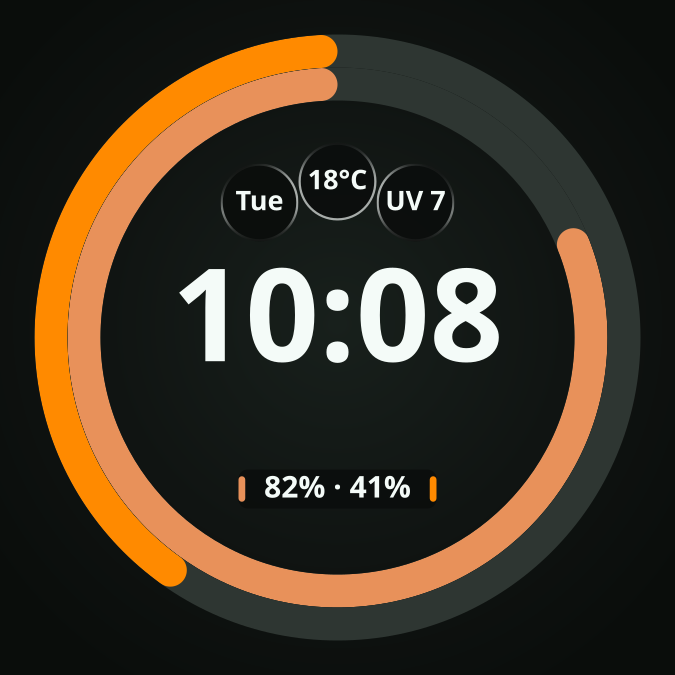
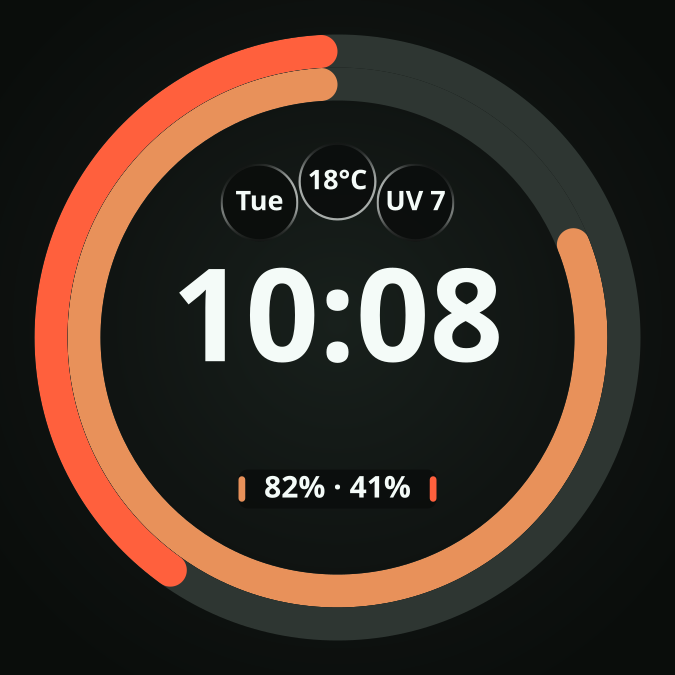
fix(claude): adopt the approved Fable accent across surfaces

Changed region(s): [[0.0311, 0.0311, 0.4978, 0.8711], [0.6222, 0.7156, 0.6533, 0.7467]]

diff --git a/apps/phone_flutter/test/dashboard_screen_test.dart b/apps/phone_flutter/test/dashboard_screen_test.dart
@@ -432,9 +432,9 @@ void main() {
       File('../../fixtures/snapshots/dashboard_today.json').readAsStringSync(),
     );
     for (final (provider, allowanceSource, id, used, color) in const [
-      ('claude', 'plan', 'claude-seven-day-fable', 25.0, Color(0xFFFF8A00)),
-      ('claude', 'plan', 'claude-seven-day-fable', 100.0, Color(0xFFFF8A00)),
-      ('claude', 'plan', 'claude-seven-day-fable', null, Color(0xFFFF8A00)),
+      ('claude', 'plan', 'claude-seven-day-fable', 25.0, Color(0xFFFF603D)),
+      ('claude', 'plan', 'claude-seven-day-fable', 100.0, Color(0xFFFF603D)),
+      ('claude', 'plan', 'claude-seven-day-fable', null, Color(0xFFFF603D)),
       ('claude', 'plan', 'claude-seven-day', 25.0, Color(0xFFE8915A)),
       (
         'claude',

diff --git a/apps/phone_flutter/test/phone_widget_payload_test.dart b/apps/phone_flutter/test/phone_widget_payload_test.dart
@@ -68,7 +68,7 @@ void main() {
           final fable = payload.rows.first;
           expect(fable.poolLabel, 'Fable weekly');
           expect(fable.remainingPercent, 0);
-          expect(fable.accentArgb, 0xFFFF8A00);
+          expect(fable.accentArgb, 0xFFFF603D);
           expect(fable.resetsAt, reset);
         }
       }
@@ -191,7 +191,7 @@ void main() {
     expect(phoneWidgetAccentArgb('allowance.claude.plan'), claude);
     expect(
       phoneWidgetAccentArgb('allowance.claude.claude-seven-day-fable'),
-      0xFFFF8A00,
+      0xFFFF603D,
     );
     for (final id in [
       'allowance.claude.claude-seven-day',

diff --git a/apps/wear_android/app/src/test/java/app/wardpulse/wear/ui/RingFamilyTest.kt b/apps/wear_android/app/src/test/java/app/wardpulse/wear/ui/RingFamilyTest.kt
@@ -48,7 +48,7 @@ class RingFamilyTest {
 
     @Test
     fun onlyTheExactFableMetricLeavesTheClaudeFamilyColor() {
-        assertEquals(0xFFFF8A00.toInt(), RingFamily.colorArgb("allowance.claude.claude-seven-day-fable"))
+        assertEquals(0xFFFF603D.toInt(), RingFamily.colorArgb("allowance.claude.claude-seven-day-fable"))
         for (id in listOf(
             "allowance.claude.plan",
             "allowance.claude.claude-seven-day",

diff --git a/apps/phone_flutter/lib/dashboard/provider_status_color.dart b/apps/phone_flutter/lib/dashboard/provider_status_color.dart
@@ -17,7 +17,7 @@ const familyCursorOwnColor = Color(0xFF7E93B8);
 const familyCodexSparkColor = Color(0xFF186020);
 
 /// The independent included Fable weekly sub-cap, not the ordinary Claude family.
-const familyClaudeFableColor = Color(0xFFFF8A00);
+const familyClaudeFableColor = Color(0xFFFF603D);
 
 /// Demo data keeps the blue it has always had; it is not an unresolved family.
 const _familyMock = Color(0xFF8AB4F8);

diff --git a/apps/wear_android/app/src/main/java/app/wardpulse/wear/ui/RingFamily.kt b/apps/wear_android/app/src/main/java/app/wardpulse/wear/ui/RingFamily.kt
@@ -13,7 +13,7 @@ object RingFamily {
     const val CLAUDE = 0xFFE8915A.toInt()
 
     /** Only the recognized included weekly Fable sub-cap has this accent. */
-    const val CLAUDE_FABLE = 0xFFFF8A00.toInt()
+    const val CLAUDE_FABLE = 0xFFFF603D.toInt()
 
     /** Cursor, and its external models pool by extension. */
     const val CURSOR = 0xFF67E8D4.toInt()

diff --git a/docs/product/WATCH_RING_DESIGN.md b/docs/product/WATCH_RING_DESIGN.md
@@ -154,10 +154,22 @@ acceptance is inferred. Three bands, two split ordinals, eight slots, pair/Fable
 all admission/data rules, full closure, tracks and the raised clock/cells/logo/legend
 retain their owning contracts.
 
+## Revision 2026-11-01 — approved Fable palette
+
+The owner approved replacing exact Fable `#FF8A00` with `#FF603D`, a warm red with an
+orange tint, across the face/marker, Glance, Dashboard and widget. Ordinary Claude
+remains `#E8915A`. The current Fable rules below use the replacement accent; matching,
+pair identity, zero/unknown/error styling, alpha, caps, pivots, geometry, raised clock,
+typography, data and selection rules remain unchanged.
+
+New-palette native/current-Legacy and public proof remain **Pending** for the separate
+post-execution HOST handoff. Historical observations and bounded prior acceptance
+retain their dated scope; generated review art does not establish painted native color.
+
 ## Revision 2026-11-01 — included Fable weekly metric
 
 The selected Claude/Fable design adds one exact metric accent: `claude-seven-day-fable`
-and ring `allowance.claude.claude-seven-day-fable` use **`#FF8A00`**. Ordinary Claude,
+and ring `allowance.claude.claude-seven-day-fable` use **`#FF603D`**. Ordinary Claude,
 legacy Opus/Sonnet and Anthropic budgets keep **`#E8915A`**. Provider/status chrome
 retains its existing theme roles.
 This is a selected palette rule; no native color or fit measurement is claimed here.
@@ -1151,7 +1163,7 @@ may modulate toward theme tertiary/error when needed.
 | OpenAI / Codex | `#65D78A` | Green |
 | Codex · Spark | `#186020` | Dark green — the Spark limit on the Codex plan |
 | Anthropic / Claude | `#E8915A` | Orange (Anthropic presentation) |
-| Claude · Fable | `#FF8A00` | Exact included weekly sub-cap only; revision 2026-11-01 |
+| Claude · Fable | `#FF603D` | Warm red with an orange tint; exact included weekly sub-cap only; approved revision 2026-11-01 |
 | Cursor · other models | `#67E8D4` | Cyan — external models on the Cursor plan |
 | Cursor · own models | `#7E93B8` | Grey-blue — the plan's own pool |
 | Unresolved family | `#8A968F` | Neutral grey — fallback only, never a product color |
@@ -1283,7 +1295,7 @@ on its own value.
 2. **The order inside a pair is fixed by pool, never by usage.** Cursor own models take the
    inner half and left marker; external models take the outer half and right marker. Codex main
    takes inside/left, Spark outside/right; its darker `#186020` reads on the longer outer arc.
-   Ordinary Claude takes inside/left in `#E8915A`, Fable outside/right in `#FF8A00`.
+   Ordinary Claude takes inside/left in `#E8915A`, Fable outside/right in `#FF603D`.
    Position inside the pair is a name, not a rank: urgency is already carried twice, by each half's own melt and by
    where the pair sits among the rings. A third encoding would only make the colours swap sides
    at the moment the reader is looking at a problem.
@@ -1295,7 +1307,7 @@ on its own value.
    stays the rule for every other strip: two of the same colour would say a thing twice, which is
    the defect this language exists to avoid. Each strip's `TITLE` carries a closed outer-pool
    token: `cursor-other` selects static `#67E8D4`, `spark` selects static `#186020`, and
-   `fable` selects static `#FF8A00`.
+   `fable` selects static `#FF603D`.
    An empty or unknown family token paints no far marker. Known zero does not remove a marker.
    The inner accent keeps `[COMPLICATION.RANGED_VALUE_COLORS]`; the
    outer accent does not borrow its colour. A new outer pool requires a matching token in Wear

diff --git a/docs/product/WEAR_GLANCE_DESIGN.md b/docs/product/WEAR_GLANCE_DESIGN.md
@@ -9,12 +9,16 @@ watch-face baseline in [`WATCH_RING_DESIGN.md`](WATCH_RING_DESIGN.md): this scre
 
 The selected pair title is **Claude / Fable**, recognized only for inner
 `allowance.claude.plan` and outer `allowance.claude.claude-seven-day-fable`.
-Ordinary Claude keeps `#E8915A`; only the exact Fable metric takes `#FF8A00`.
+Ordinary Claude keeps `#E8915A`; only the exact Fable metric takes `#FF603D`.
 Keep inner-first percentages regardless of which half is tighter, existing purchased-credit
 eligibility and compact formatting, and pale-red numeric zero tokens only for known exhaustion.
 An unknown half uses the existing known-survivor fallback with its meaningful window label;
 two unknown halves produce no legend row. Plan windows retains the supplied window labels
 and real resets. This adds no new refresh, navigation or rendering geometry rule.
+
+**Approved palette follow-up 2026-11-01.** Replace Fable `#FF8A00` with `#FF603D`,
+a warm red with an orange tint. New-palette native/public proof remains **Pending**;
+earlier observations retain their dated scope.
 
 `glance-legend-fable.svg` and `glance-legend-fable-zero.svg` are synthetic illustrative
 review art, not positive-consumption captures or native measurements. Native/current-Legacy

diff --git a/docs/product/PHONE_WIDGET_DESIGN.md b/docs/product/PHONE_WIDGET_DESIGN.md
@@ -30,11 +30,15 @@ The declared baseline covers approved English labels, numeric tokens and reset f
 ## Metric rules and optional reset
 
 **Metric-color revision 2026-11-01.** Exact metric
-`allowance.claude.claude-seven-day-fable` takes `#FF8A00`; ordinary Claude remains
+`allowance.claude.claude-seven-day-fable` takes `#FF603D`; ordinary Claude remains
 `#E8915A`. Similar labels/IDs, legacy windows, Anthropic budgets and provider/status
 chrome do not inherit this exception. Expanded independent rows, six selections,
 purchased-credit eligibility, real optional resets and known-zero/unknown behavior
 are unchanged. This Source palette decision does not close pending native/public acceptance.
+
+**Approved palette follow-up 2026-11-01.** Replace Fable `#FF8A00` with `#FF603D`,
+a warm red with an orange tint. New-palette native/public proof remains **Pending**;
+earlier observations and ordinary Claude review rows retain their dated scope.
 
 **Selection independence revision 2026-11-01.** Fable weekly is its own expanded widget
 choice. Keep six independent rows even when the same metrics would exceed watch band or

diff --git a/docs/product/user-guide/WATCH.md b/docs/product/user-guide/WATCH.md
@@ -151,10 +151,10 @@ keeps a grey empty track and pale-red **0%** token; it is not replaced by a less
 Tiny positive values rounded to zero keep ordinary styling.
 
 **Claude plan** uses those ordinary windows; **Claude · Fable** is a separate included weekly
-sub-cap when reported. Selecting both produces **Claude / Fable**. Fable uses orange
-`#FF8A00`; ordinary Claude keeps `#E8915A`. A missing percentage stays unknown: only known
-halves fill rings, and a surviving half uses an ordinary band. Reported resets stay with their
-own windows on **Plan windows**.
+sub-cap when reported. Selecting both produces **Claude / Fable**. Fable uses warm red
+with an orange tint (`#FF603D`); ordinary Claude keeps `#E8915A`. A missing percentage stays
+unknown: only known halves fill rings, and a surviving half uses an ordinary band. Reported
+resets stay with their own windows on **Plan windows**.
 
 **Next watch payload** describes what the phone will send; it is not delivery confirmation.
 Ring choices are independent of the phone's [home-widget selection](/guide/widget).

diff --git a/docs/assets/README.md b/docs/assets/README.md
@@ -18,7 +18,12 @@ pair, healthy Glance, Plan windows and watch face form one shared-state group ca
 The Dashboard warning pair, clock-free Stale Glance and historical manual-selection setup
 image illustrate their explicitly explained states. Date added is unchanged by a refresh.
 
-This group shows the current Dashboard, ring selection, Glance, Plan windows and selected
+**Palette freshness, 2026-11-01.** Existing public captures predate the approved Fable
+accent `#FF603D` and do not verify it. The shared public capture refresh remains **Pending**
+until the remaining UI work is complete. Capture dates, recorded artifact scopes and
+the 37-image inventory remain unchanged; no public PNGs were recaptured for this palette change.
+
+This group shows the captured Dashboard, ring selection, Glance, Plan windows and selected
 face. All three expected default upper face cells contain actual data. Capture verification
 is separate from unpictured setup-utility, physical-device,
 remaining-backlog and release acceptance.

diff --git a/docs/product/PHONE_DASHBOARD_DESIGN.md b/docs/product/PHONE_DASHBOARD_DESIGN.md
@@ -121,11 +121,15 @@ whole.
 ## Family and source ownership
 
 **Metric-color revision 2026-11-01.** Only a Claude Plan allowance with exact ID
-`claude-seven-day-fable` uses `#FF8A00`; display labels never choose this accent.
+`claude-seven-day-fable` uses `#FF603D`; display labels never choose this accent.
 Ordinary Claude and legacy windows keep `#E8915A`. Anthropic family headers,
 provider/status chrome, purchased usage, budgets and unrelated IDs retain their
 existing colors. Known zero retains its real remaining bar; unknown usage has no
 fabricated bar. This is a selected Source color rule, not native/public acceptance.
+
+**Approved palette follow-up 2026-11-01.** Replace Fable `#FF8A00` with `#FF603D`,
+a warm red with an orange tint. New-palette native/public proof remains **Pending**;
+earlier observations retain their dated scope.
 
 **Clarification 2026-10-17.** Dashboard sections use `providerFamilyOf` and
 `providerFamilyLabel` from `provider_connection.dart`: OpenAI contains Codex plan

diff --git a/.agents/skills/android-surfaces/references/watch-face.md b/.agents/skills/android-surfaces/references/watch-face.md
@@ -48,7 +48,8 @@ Read for WFF, its generator/resources, complication metadata or face-like previe
   accents use `[COMPLICATION.RANGED_VALUE_COLORS]` for the inner pool. Combined TITLE bases
   `split`, `split:cursor-other`, `split:spark`, `split:fable` keep the outer marker's family identity;
   known zero suffixes must preserve marker selection. Cursor's marker is static `#67E8D4`,
-  Spark's `#186020`, Fable's `#FF8A00`, all 3x14. Fable is exact metric
+  Spark's `#186020`, Fable's approved warm red with an orange tint `#FF603D`, all 3x14.
+  Fable is exact metric
   `allowance.claude.claude-seven-day-fable`, outside/right of ordinary Claude `#E8915A`
   under the selected 2026-11-01 revision. Phone admission enforces three bands and two
   completed pairs before publication, including saved halves whose data is absent. Invalid
